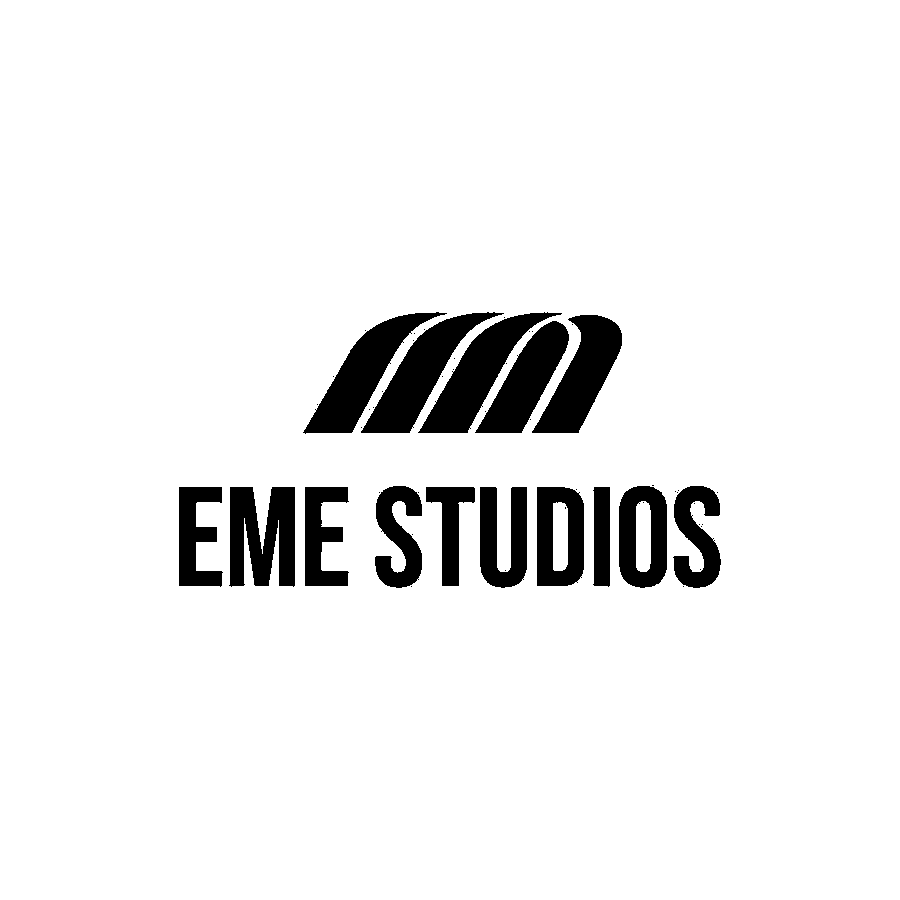
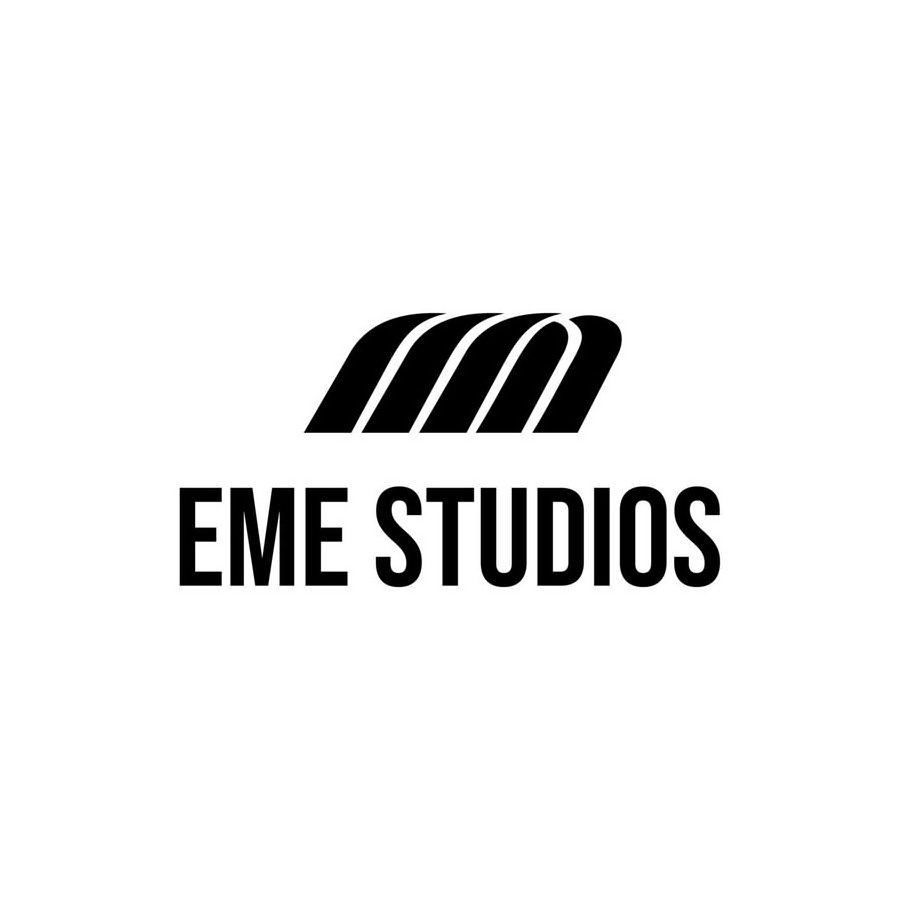
Add files via upload

diff --git a/about_EN.html b/about_EN.html
@@ -30,7 +30,7 @@
     <main class="main-content">
         <section class="about">
             <div class="image">   
-                <img src="Resources/images/Makeup test.PNG" alt="Alejandra Cardenas">
+                <img src="/Resources/images/Makeup test.PNG" alt="Alejandra Cardenas">
                 </div> 
             <div class="text">
             <h1>About Alejandra</h1>
@@ -50,25 +50,52 @@
                 <div class="client-track">
                     <!-- Original logos -->
                     <div class="client"><img src="Resources/images/VOGUE_LOGO.svg" alt="Client 1"></div>
-                    <div class="client" id="eme"><img src="Resources/images/EME Studios.png" alt="Client 2"></div>
+                    <div class="client" id="eme"><img src="Resources/images/EME Studios.svg" alt="Client 2"></div>
                     <div class="client"><img src="Resources/images/VOGUE_LOGO.svg" alt="Client 3"></div>
-                    <div class="client"id="eme"><img src="Resources/images/EME Studios.png" alt="Client 4"></div>
+                    <div class="client"id="eme"><img src="Resources/images/EME Studios.svg" alt="Client 4"></div>
                     <div class="client"><img src="Resources/images/VOGUE_LOGO.svg" alt="Client 5"></div>
-                    <div class="client"id="eme"><img src="Resources/images/EME Studios.png" alt="Client 6"></div>
+                    <div class="client"id="eme"><img src="Resources/images/EME Studios.svg" alt="Client 6"></div>
                     <div class="client"><img src="Resources/images/VOGUE_LOGO.svg" alt="Client 7"></div>
                     <!-- Duplicate logos for seamless loop -->
                     <div class="client"><img src="Resources/images/VOGUE_LOGO.svg" alt="Client 1"></div>
-                    <div class="client" id="eme"><img src="Resources/images/EME Studios.png" alt="Client 2"></div>
+                    <div class="client" id="eme"><img src="Resources/images/EME Studios.svg" alt="Client 2"></div>
                     <div class="client"><img src="Resources/images/VOGUE_LOGO.svg" alt="Client 3"></div>
-                    <div class="client"id="eme"><img src="Resources/images/EME Studios.png" alt="Client 4"></div>
+                    <div class="client"id="eme"><img src="Resources/images/EME Studios.svg" alt="Client 4"></div>
                     <div class="client"><img src="Resources/images/VOGUE_LOGO.svg" alt="Client 5"></div>
-                    <div class="client"id="eme"><img src="Resources/images/EME Studios.png" alt="Client 6"></div>
+                    <div class="client"id="eme"><img src="Resources/images/EME Studios.svg" alt="Client 6"></div>
                     <div class="client"><img src="Resources/images/VOGUE_LOGO.svg" alt="Client 7"></div>
                 </div>
             </div>
         </div>
         </section>
         <section class="Testimonials">
+            <h2>Testimonials</h2>
+            <div class="testimonials">
+                <div class="testimonial">
+                    <p>"Alejandra is a true artist. Her attention to detail and creativity are unmatched. She is a pleasure to work with and always delivers exceptional results."</p>
+                    <p class="author">- Jane Doe, Model</p>
+                </div>
+                <div class="testimonial">
+                    <p>"Alejandra is a true artist. Her attention to detail and creativity are unmatched. She is a pleasure to work with and always delivers exceptional results."</p>
+                    <p class="author">- Jane Doe, Model</p>
+                </div>
+                <div class="testimonial">
+                    <p>"Alejandra is a true artist. Her attention to detail and creativity are unmatched. She is a pleasure to work with and always delivers exceptional results."</p>
+                    <p class="author">- Jane Doe, Model</p>
+                </div>
+                <div class="testimonial">
+                    <p>"Alejandra is a true artist. Her attention to detail and creativity are unmatched. She is a pleasure to work with and always delivers exceptional results."</p>
+                    <p class="author">- Jane Doe, Model</p>
+                </div>
+                <div class="testimonial">
+                    <p>"Alejandra is a true artist. Her attention to detail and creativity are unmatched. She is a pleasure to work with and always delivers exceptional results."</p>
+                    <p class="author">- Jane Doe, Model</p>
+                </div>
+                <div class="testimonial">
+                    <p>"Alejandra is a true artist. Her attention to detail and creativity are unmatched. She is a pleasure to work with and always delivers exceptional results."</p>
+                    <p class="author">- Jane Doe, Model</p>
+                </div>
+            </div>
         </section>
     </main>
     

diff --git a/Resources/css/about.css b/Resources/css/about.css
@@ -279,7 +279,7 @@ section.about div.image{
    
     width: 50%;
     margin-right: 10px;
-    max-width: 600px;
+    max-width: 655px;
 }
 section.about div.image img{
     display: flex;
@@ -433,4 +433,60 @@ scale: 3;
     .client {
         flex: 0 1 100px; /* Even smaller on very small screens */
     }
+}
+
+.Testimonials {
+    display: flex;
+    flex-direction: column;
+    align-items: center;
+    justify-content: center;
+    width: 100%;
+    background-color: #000000;
+    margin: 0 auto;
+    padding: 20px;
+    
+}
+
+.Testimonials h2 {
+    margin-top: -20px;
+    margin-bottom: 30px;
+    position: relative;
+    font-weight: 500;
+    color: #fff;
+    border-bottom: #fff 1px solid;
+}
+.testimonials {
+    display: flex;
+    flex-direction: row;
+    align-items: center;
+    justify-content: center;
+    margin:  auto;
+    color: #fff;
+   flex-wrap: wrap;
+    width: 100%;
+    gap: 100px;
+    
+    position: relative;
+    
+   
+}
+.testimonial {
+   border: #fff 1px solid;
+    padding: 10px;
+    flex: 0 1 calc(33.333% - 70px); /* Set width to roughly one-third minus gap spacing */
+    min-width: 250px; /* Minimum width for each testimonial */
+    max-width: 400px; /* Maximum width for each testimonial */
+    transition: all 0.5s ease;
+}
+.testimonial:hover {
+    scale: 1.1;
+}  
+
+@media screen and (max-width: 768px) {
+    .testimonials {
+        flex-direction: column;
+        padding: 1rem;
+        gap: 40px;
+    }
+
 }
